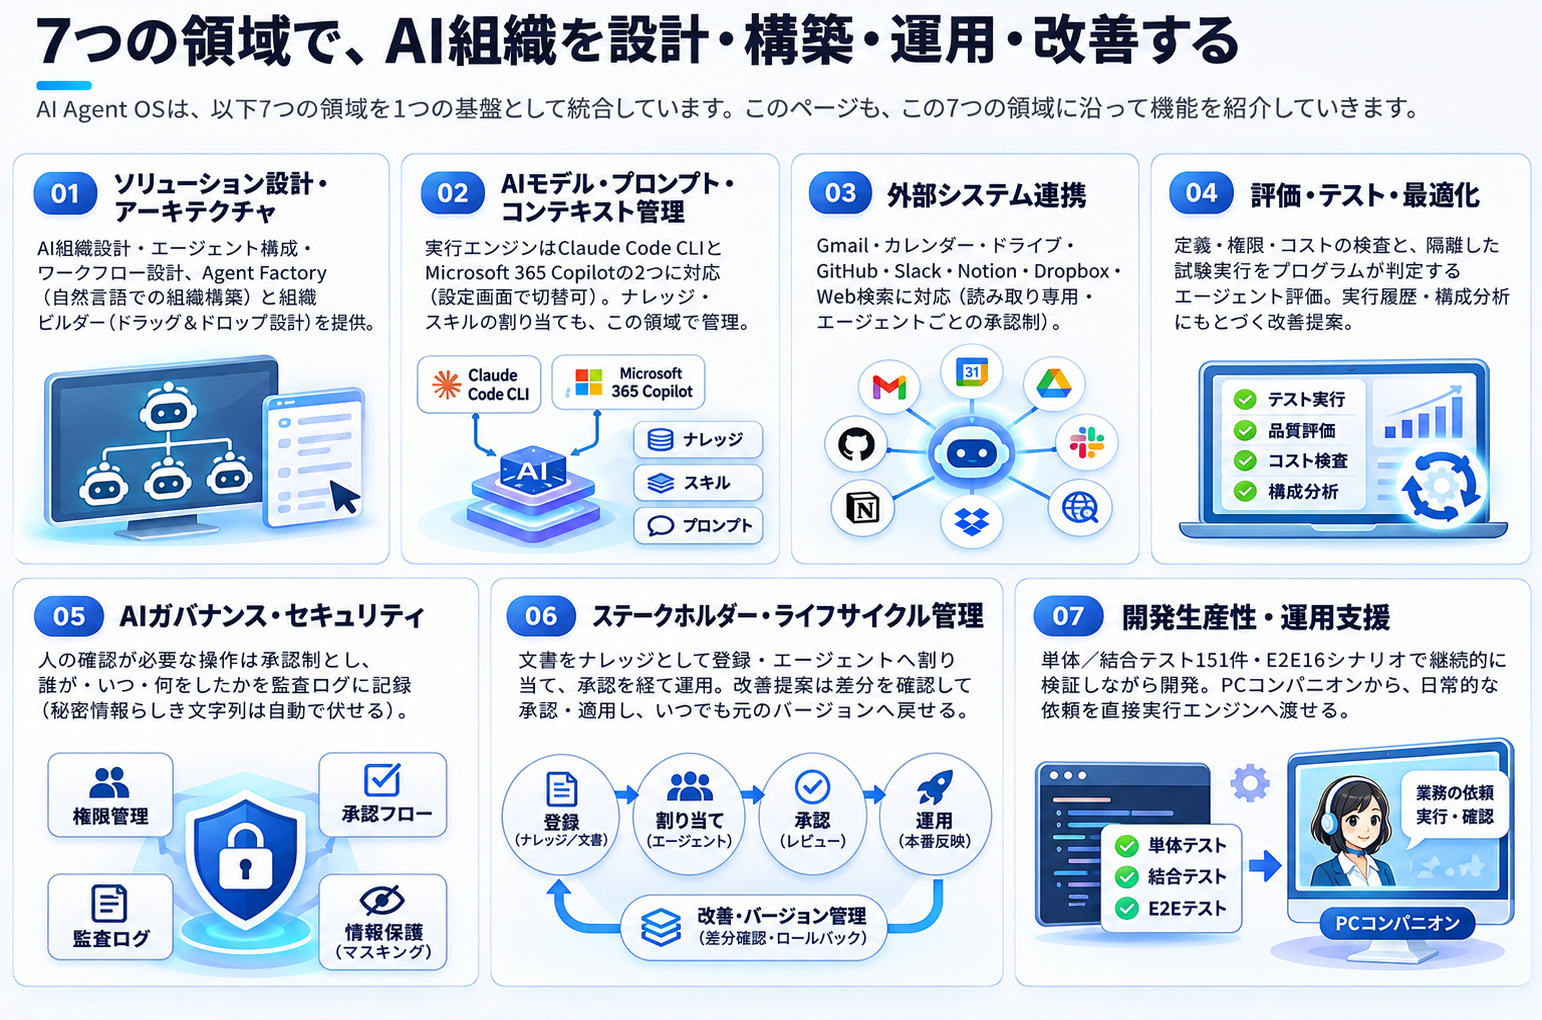
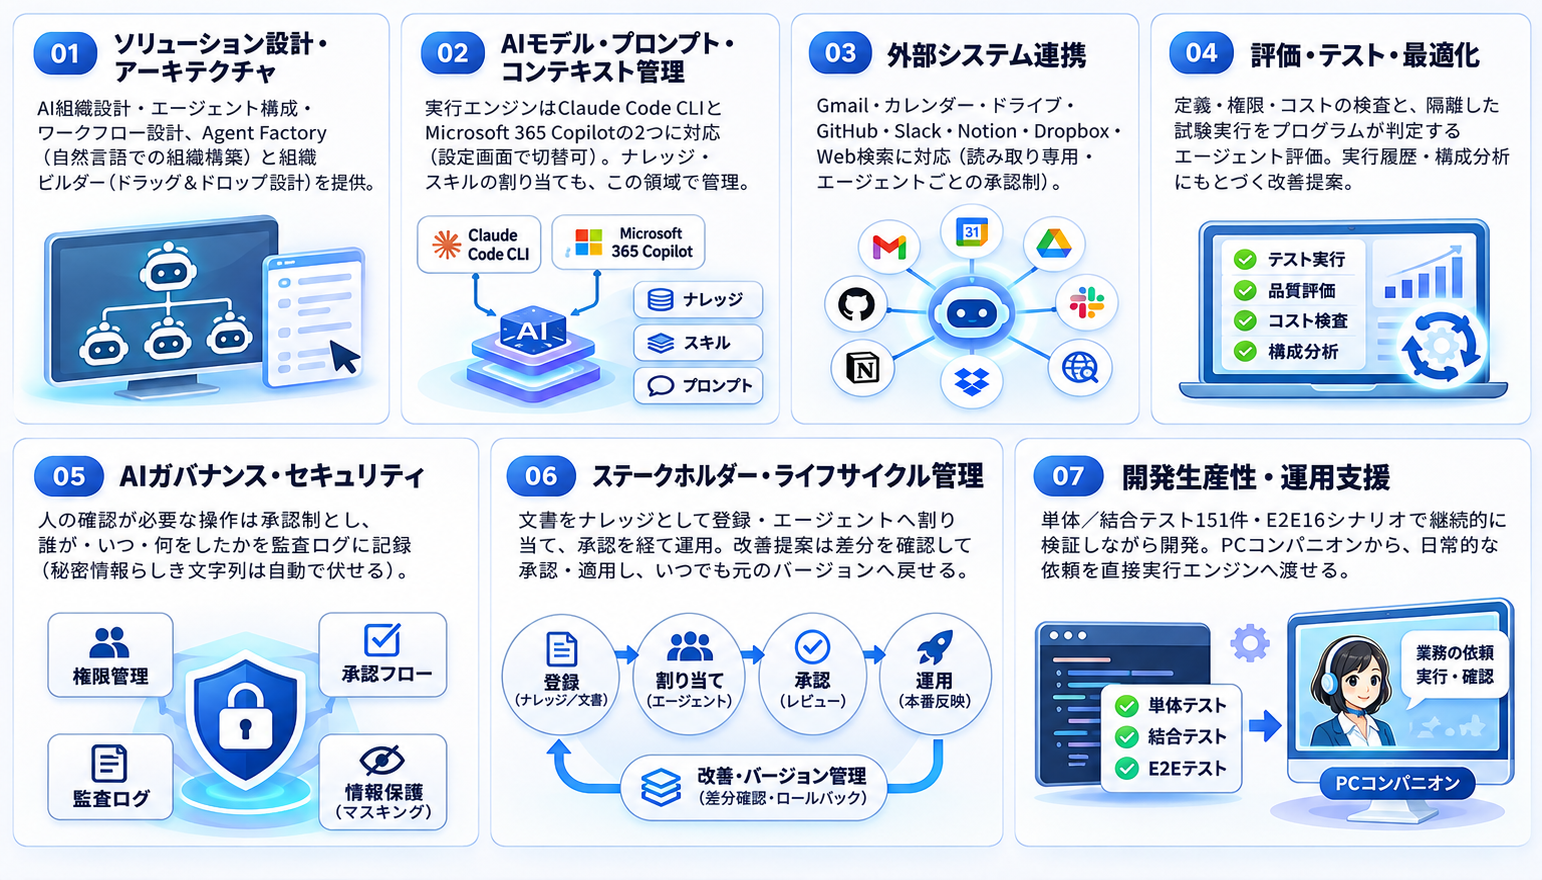
7つの領域図の見出し重複を解消（画像上部の重複見出しブロックをトリミング）

diff --git a/ai-agent-os.html b/ai-agent-os.html
@@ -685,7 +685,7 @@ img{max-width:100%}
     <div class="sec-tag">STRUCTURE</div>
     <h2 class="sec-title">7つの領域で、AI組織を設計・構築・運用・改善する</h2>
     <p class="sec-lead">AI Agent OSは、「ソリューション設計・アーキテクチャ」「AIモデル・プロンプト・コンテキスト管理」「外部システム連携」「評価・テスト・最適化」「AIガバナンス・セキュリティ」「ステークホルダー・ライフサイクル管理」「開発生産性・運用支援」の7領域を、1つの基盤として統合しています。ここから、領域ごとに実現している内容を紹介します。</p>
-    <img src="fig_agentos_domains_overview.png" alt="7つの領域で、AI組織を設計・構築・運用・改善する。ソリューション設計・アーキテクチャ／AIモデル・プロンプト・コンテキスト管理／外部システム連携／評価・テスト・最適化／AIガバナンス・セキュリティ／ステークホルダー・ライフサイクル管理／開発生産性・運用支援の7領域を1つの基盤として統合している" class="fig" loading="lazy" width="1542" height="1020" style="margin-top:28px">
+    <img src="fig_agentos_domains_overview.png" alt="7つの領域で、AI組織を設計・構築・運用・改善する。ソリューション設計・アーキテクチャ／AIモデル・プロンプト・コンテキスト管理／外部システム連携／評価・テスト・最適化／AIガバナンス・セキュリティ／ステークホルダー・ライフサイクル管理／開発生産性・運用支援の7領域を1つの基盤として統合している" class="fig" loading="lazy" width="1542" height="880" style="margin-top:28px">
   </div>
 </section>
 
